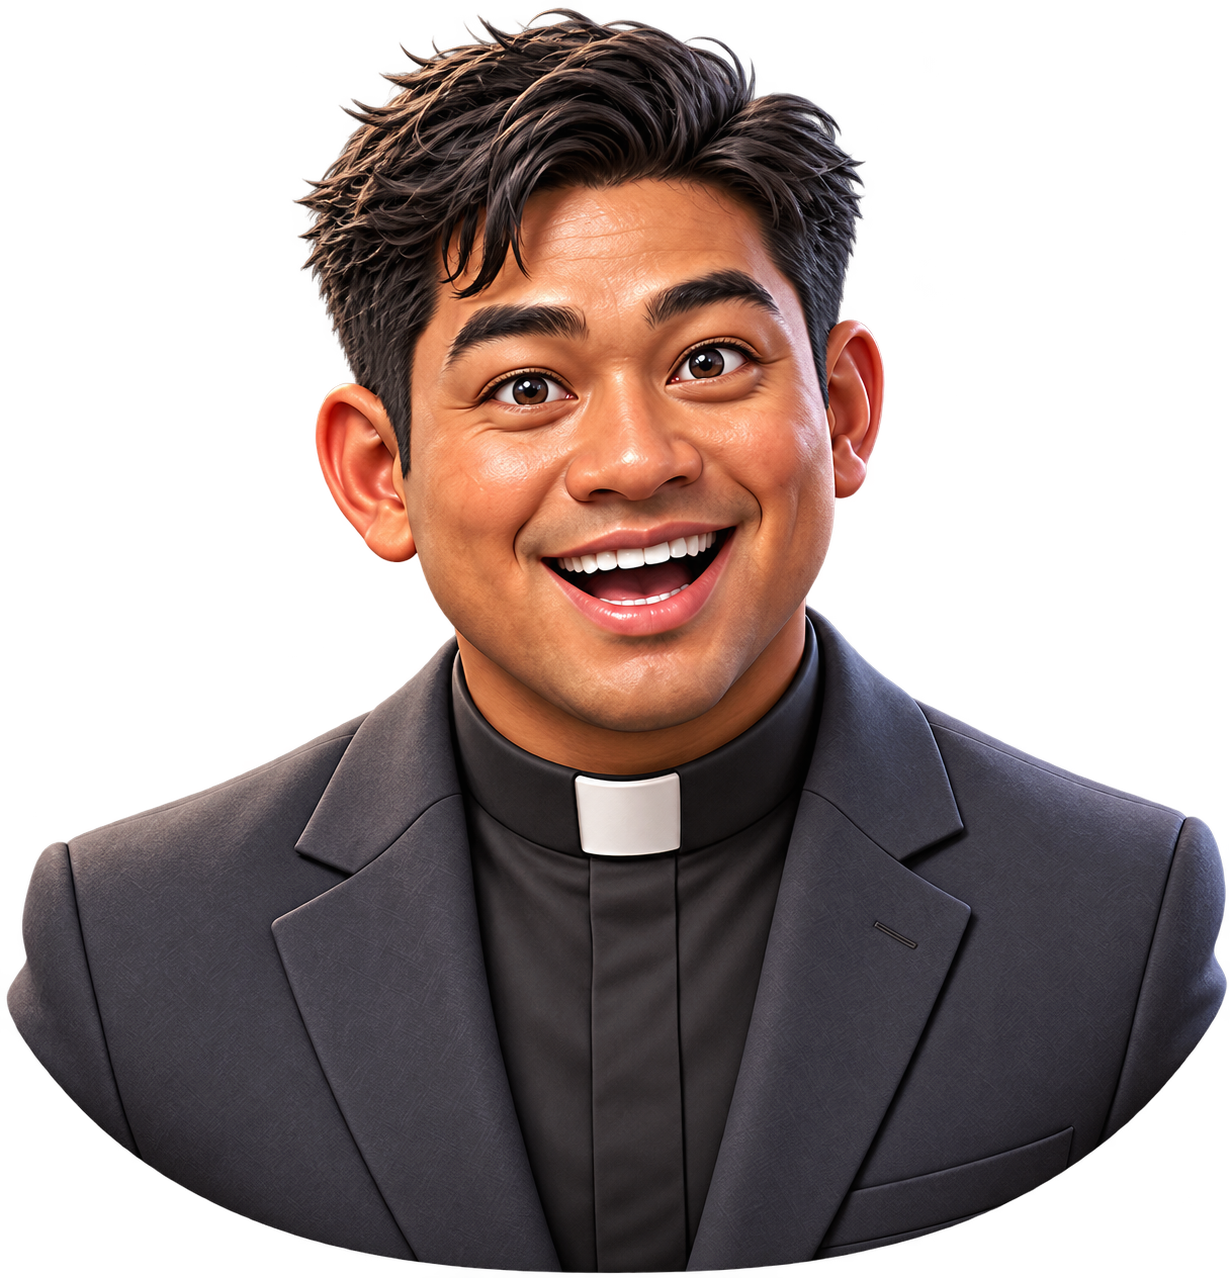
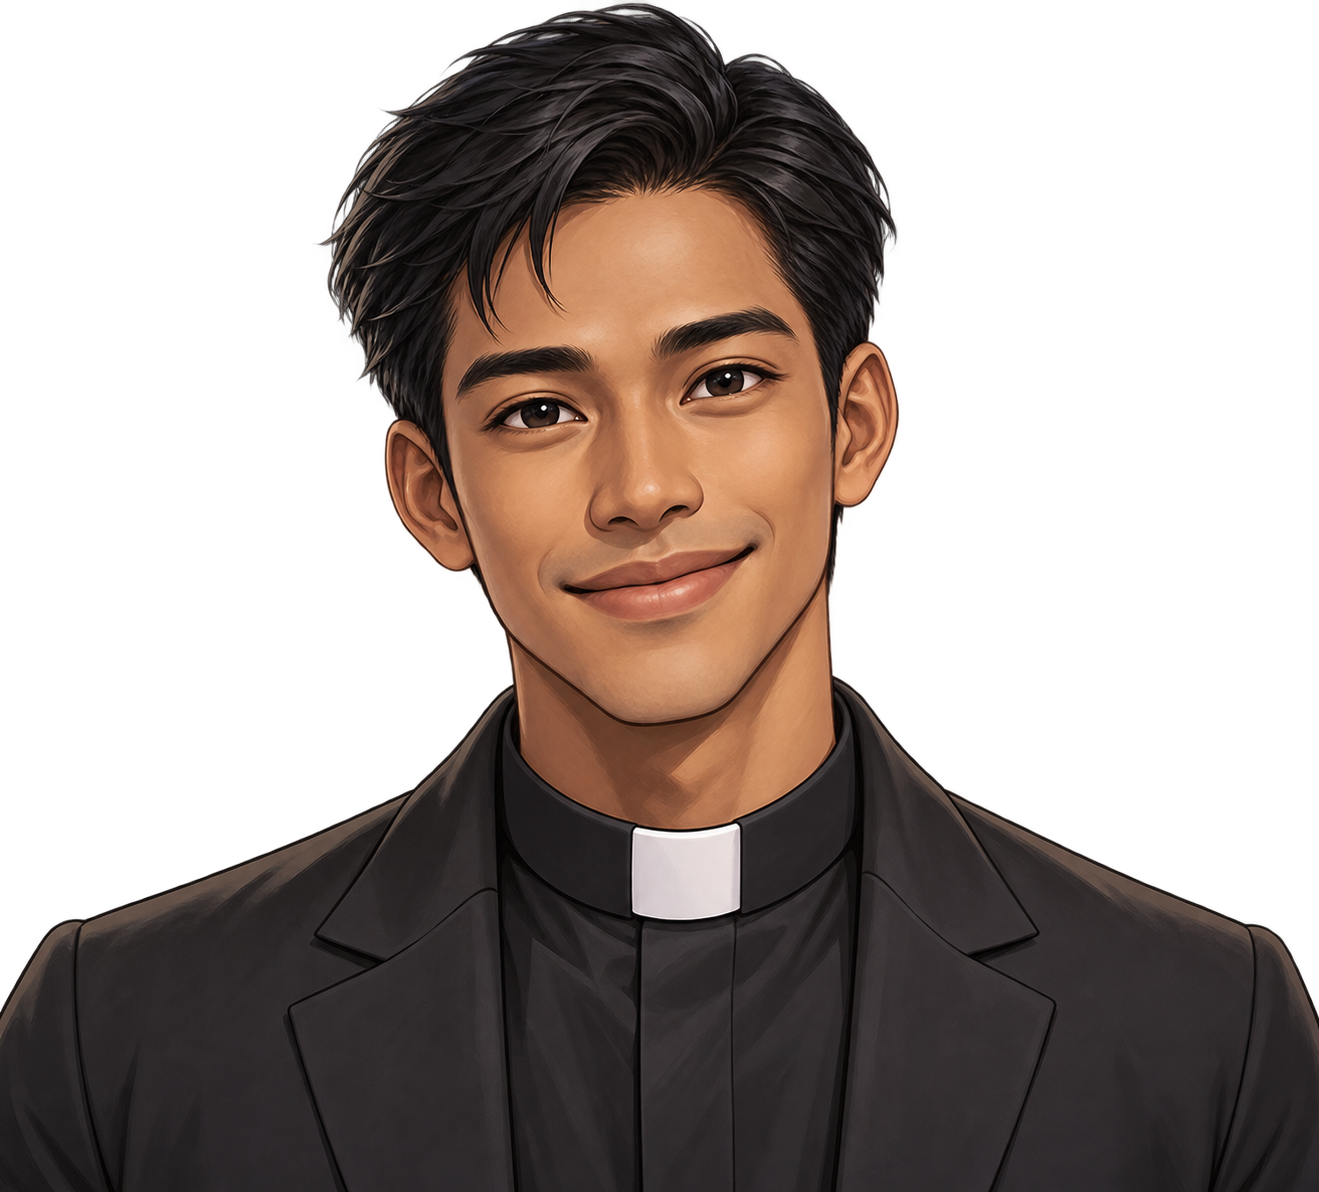
Use a 2D Southeast Asian pastor portrait

diff --git a/index.html b/index.html
@@ -388,7 +388,7 @@ const BLACK='#1b1b1b',RED='#c8312f';
 // Character looks. 'jersey' is drawn from the user's photo: short tousled dark hair, black square glasses,
 // navy jersey with green / lime vertical stripes and a lime V collar, black shorts, black watch on the left wrist.
 const LOOKS={
-pastor3d:{name:'목사님',nick:'목사님',kit:{name:'PASTOR',color:'#e9d5ff'},face:'pastorFace',faceFit:{h:55,b:24,cx:.5},model3d:'pastorBody',spinServe:true,ceremony:'좋은 소식입니다! 🏓',split:true,stanceK:1.02,crouchK:.1,shirt:'#25252d',sleeve:'#25252d',collar:'#f8fafc',pants:'#172033',shorts:false,hair:'#1b1618',skin:'#a96843',skinShade:'#824629'},
+pastor3d:{name:'목사님',nick:'목사님',kit:{name:'PASTOR',color:'#e9d5ff'},face:'pastorFace',faceFit:{h:55,b:24,cx:.5},spinServe:true,ceremony:'좋은 소식입니다! 🏓',split:true,stanceK:1.02,crouchK:.1,shirt:'#25252d',sleeve:'#25252d',collar:'#f8fafc',pants:'#172033',shorts:false,hair:'#1b1618',skin:'#a96843',skinShade:'#824629'},
 neon3d:{name:'네온 스핀',nick:'네온 스핀',kit:{name:'NEON',color:'#22d3ee'},face:'neonFace',faceFit:{h:56,b:24,cx:.5},model3d:'neonBody',spinServe:true,ceremony:'스핀 온!',split:true,stanceK:1.1,crouchK:.12,shirt:'#172554',sleeve:'#172554',collar:'#22d3ee',pants:'#111827',shorts:false,hair:'#16121e',skin:'#efc6a6',skinShade:'#d3a283'},
 jersey:{name:'휴고범',nick:'휴고범',kit:{name:'BEOM',color:'#c9ec4a'},trait:{strong:-1,weak:1},face:'hugo',split:true,shout:'촤!',strokes:'hugo',stanceK:1.15,crouchK:.12,shirt:'#163a6b',stripes:['#1f9b54','#c9ec4a'],sleeve:'#1f9b54',collar:'#c9ec4a',pants:'#151515',shorts:true,hair:'#211812',tousled:true,glasses:true,watch:true},
 // 리신범, from the user's photo: wavy dark hair, black headband over the eyes with glasses on top, stubble,
@@ -1046,7 +1046,7 @@ const DRUNK_NOSCORE=.01;   // 만취범's won point: 1% he is too drunk to turn 
 const TRAIT_POWER=.3,TRAIT_MULT=1.25,TRAIT_ERR=.1,SIDE_NAME={'1':'포핸드','-1':'백핸드'};
 // Head-only cutouts use their own chin anchors; untouched photos keep their original fit.
 const HEAD_FITS={yunhwan:{h:49,b:22,cx:.5},jongryeong:{h:49,b:21.5,cx:.46},ajae:{h:49,b:23.5,cx:.5},sleepy:{h:49,b:20,cx:.5},hyde:{h:49,b:20,cx:.5},percival:{h:45,b:19.5,cx:.45},adam:{h:49,b:24,cx:.5},minheeS:{h:49,b:20.5,cx:.42}};
-const FACES={};for(const [k,f] of [['pastorBody','pastor-3d.png'],['pastorFace','pastor-face.png'],['neonBody','neon-spin-3d.png'],['neonFace','neon-spin-face.png'],['hugo','hugo-face.png'],['gambler','gambler-face.png'],['leesin','leesin-face.png'],['percival','percival-face.png'],['drunk','drunk-face.png'],['ajae','ajae-face.png'],['sleepy','sleepy-face.png'],['hyde','hyde-face.png'],['jh','jekyll-hyde-face.png'],['minhee','minhee-face.png'],['yunhwan','yunhwan-face.png'],['seohyun','seohyun-face.png'],['jongryeong','jongryeong-face.png'],['songstar','songstar-face.png'],['ttalgak','ttalgak-face.png'],['adam','adam-face.png'],['godyung','godyung-face.png'],['jiseong','jiseong-face.png'],['infibot','infibot-face.png'],['boss','boss-face.png'],['minheeS','minhee-serve.png'],['minheeF','minhee-fh.png']]){const im=new Image();im.photoFit=HEAD_FITS[k];im.fetchPriority=['minhee','gambler','pastorBody','pastorFace','neonBody','neonFace'].includes(k)?'high':'low';im.src=f;im.onload=()=>{if(typeof setCharacter==='function')setCharacter(charType);};FACES[k]=im;}
+const FACES={};for(const [k,f] of [['pastorFace','pastor-face.png'],['neonBody','neon-spin-3d.png'],['neonFace','neon-spin-face.png'],['hugo','hugo-face.png'],['gambler','gambler-face.png'],['leesin','leesin-face.png'],['percival','percival-face.png'],['drunk','drunk-face.png'],['ajae','ajae-face.png'],['sleepy','sleepy-face.png'],['hyde','hyde-face.png'],['jh','jekyll-hyde-face.png'],['minhee','minhee-face.png'],['yunhwan','yunhwan-face.png'],['seohyun','seohyun-face.png'],['jongryeong','jongryeong-face.png'],['songstar','songstar-face.png'],['ttalgak','ttalgak-face.png'],['adam','adam-face.png'],['godyung','godyung-face.png'],['jiseong','jiseong-face.png'],['infibot','infibot-face.png'],['boss','boss-face.png'],['minheeS','minhee-serve.png'],['minheeF','minhee-fh.png']]){const im=new Image();im.photoFit=HEAD_FITS[k];im.fetchPriority=['minhee','gambler','pastorFace','neonBody','neonFace'].includes(k)?'high':'low';im.src=f;im.onload=()=>{if(typeof setCharacter==='function')setCharacter(charType);};FACES[k]=im;}
 const faceImg=look=>{const im=look&&look.face&&FACES[look.jekyll&&jk()<0?'hyde':look.face];return im&&im.complete&&im.naturalWidth?im:null;};
 // Each racket's special: shot type in PingPhysics.shot, trail colour, coach line.
 const SPECIALS={
@@ -2674,7 +2674,7 @@ $('blade').value=bladeType;$('rubber').value=rubberType;setRacket(store.get('rac
 $('apply-settings').onclick=applySettings;markPending();
 // Character card: what each character can do, shown before picking one
 const CHAR_INFO={
-pastor3d:{tag:'3D 모델 · 소식통 사이드스핀 선수',rows:[['info','소식 전달','늘 새로운 이야기를 전하는 활기찬 코트의 전달자'],['plus','사이드스핀 서브','회전이 실린 균형형 서브'],['perf','PERFECT','"좋은 소식입니다! 🏓"']]},
+pastor3d:{tag:'2D 일러스트 · 소식통 사이드스핀 선수',rows:[['info','소식 전달','늘 새로운 이야기를 전하는 활기찬 코트의 전달자'],['plus','사이드스핀 서브','회전이 실린 균형형 서브'],['perf','PERFECT','"좋은 소식입니다! 🏓"']]},
 neon3d:{tag:'3D 모델 · 균형형 사이드스핀 선수',rows:[['info','3D 캐릭터','실제 코트와 캐릭터 선택 화면에서 입체 전신 모델로 표시'],['plus','사이드스핀 서브','회전이 실린 균형형 서브'],['perf','PERFECT','"스핀 온!"']]},
 jiseong:{tag:'승승패패패 · 패패승승승',rows:[['minus','승승패패패','3점 이상 앞서면 모든 공에서 실수 확률 +10%'],['plus','패패승승승','3점 이상 지고 있으면 모든 공을 칠 때 능력치 +30% (속도 · 회전)'],['perf','PERFECT','"엥?"']]},ttalgak:{tag:'서브의 달인 · 오른쪽 무릎 수술',rows:[['plus','서브','어떤 서브든 회전 ×1.3 · 속도 ×1.35'],['plus','서브 압박','내 서브를 받은 공: 20% 붕 떠서 찬스볼 · 3% 네트 · 3% 아웃'],['minus','무릎','멀리 있는 공으로 급하게 움직일 때 타격 범위 −30%'],['perf','PERFECT','"찬스! 🔥"']]},
 songstar:{tag:'커트 수비의 달인 · 수비수 라켓',rows:[['plus','백핸드 롱 수비','PERFECT: 낮고 빠른 커트 + 상대 실수 +5% · GREAT: 보통 커트 + 상대 실수 +2.5%'],['info','회전 바꾸기','백핸드 롱으로 상회전 서브를 받으면 커트로 · 커트 서브는 상회전으로 · 랠리 중 커트 공은 약한 상회전으로 풀려서 리턴'],['plus','드라이브 커트','드라이브를 커트로 막으면 회전 추가: PERFECT +10% · GREAT +5% · GOOD +2.5%'],['plus','찬스볼','상대가 띄운 공은 스매싱 · 드라이브'],['minus','포핸드 공격','포핸드 드라이브 · 스매싱은 5% 확률로 너무 세게 쳐서 실수'],['perf','PERFECT','"허허이! 😆" / "으악~ 😱"']]},
@@ -2703,7 +2703,7 @@ $('ci-close').onclick=()=>{$('char-info').close();ciSync();};$('ci-pick').onclic
 const nx=$('google-login').hidden?$('start'):$('google-login');setTimeout(()=>nx.scrollIntoView({behavior:'smooth',block:'center'}),80);
 setTimeout(()=>{const r=nx.getBoundingClientRect();if(r.top<0||r.bottom>innerHeight)nx.scrollIntoView({block:'center'});},900);};   // smooth where it animates, a plain jump otherwise
 // Project-owned 3D players join both pickers without duplicating the long static HTML lists.
-for(const [id,label] of [['neon3d','네온 스핀 · 3D 밸런스형 · 사이드스핀 서브'],['pastor3d','목사님 · 3D 소식통 · 사이드스핀 서브']]){const opt=document.createElement('option');opt.value=id;opt.textContent=label;$('character').prepend(opt);const b=document.createElement('button');b.type='button';b.setAttribute('role','radio');b.dataset.char=id;const c=document.createElement('canvas');c.width=c.height=96;c.setAttribute('aria-hidden','true');b.append(c,LOOKS[id].nick);$('char-pick').prepend(b);}renderCharPick();renderLevel();
+for(const [id,label] of [['neon3d','네온 스핀 · 3D 밸런스형 · 사이드스핀 서브'],['pastor3d','목사님 · 2D 소식통 · 사이드스핀 서브']]){const opt=document.createElement('option');opt.value=id;opt.textContent=label;$('character').prepend(opt);const b=document.createElement('button');b.type='button';b.setAttribute('role','radio');b.dataset.char=id;const c=document.createElement('canvas');c.width=c.height=96;c.setAttribute('aria-hidden','true');b.append(c,LOOKS[id].nick);$('char-pick').prepend(b);}renderCharPick();renderLevel();
 document.querySelectorAll('#char-pick button').forEach(b=>b.onclick=()=>showCharInfo(b.dataset.char));
 // the settings panel's character list opens the same card; closing it without picking puts the list back
 const ciSync=()=>{$('character').value=charType;markPending();previewSettings();};

diff --git a/docs/patch-notes.md b/docs/patch-notes.md
@@ -4,9 +4,9 @@
 
 최신 순. 버전 옆 코드를 누르면 해당 변경 내용을 볼 수 있습니다.
 
-### v4.51 — 3D 목사님 캐릭터 · 2026-10-22
-- 오리지널 3D 캐릭터 **목사님**을 추가했습니다. 활기찬 소식통 콘셉트의 짧은 체격 30대 남성 목사이며, 사이드스핀 서브를 사용합니다.
-- 선택 카드·설정·필살기 컷인은 3D 초상, 실제 코트는 전신 3D 모델로 표시됩니다.
+### v4.51 — 2D 목사님 캐릭터 · 2026-10-22
+- 오리지널 2D 캐릭터 **목사님**을 추가했습니다. 활기찬 소식통 콘셉트의 짧은 체격 30대 남성 목사이며, 사이드스핀 서브를 사용합니다.
+- 선택 카드·설정·필살기 컷인과 실제 코트에서 2D 얼굴 일러스트 및 의상 렌더를 사용합니다.
 
 ### v4.50 — 네온 스핀 코디 적용 · 2026-10-22
 - 네온 스핀도 아웃핏 스튜디오의 상의·하의·머리·손목·망토·날개·이펙트·펫을 실제 코트에 적용할 수 있습니다.

diff --git a/README.md b/README.md
@@ -4,9 +4,9 @@
 
 ## 🆕 최근 업데이트
 
-### v4.51 — 3D 목사님 캐릭터 · 2026-10-22
-- 오리지널 3D 캐릭터 **목사님**을 추가했습니다. 짧은 체격의 활기찬 소식통 콘셉트이며, 사이드스핀 서브를 사용합니다.
-- 선택 카드·설정·필살기 컷인은 3D 초상, 실제 코트는 전신 3D 모델로 표시됩니다.
+### v4.51 — 2D 목사님 캐릭터 · 2026-10-22
+- 오리지널 2D 캐릭터 **목사님**을 추가했습니다. 짧은 체격의 활기찬 소식통 콘셉트이며, 사이드스핀 서브를 사용합니다.
+- 선택 카드·설정·필살기 컷인과 실제 코트에서 2D 얼굴 일러스트 및 의상 렌더를 사용합니다.
 
 ### v4.50 — 네온 스핀 코디 적용 · 2026-10-22
 - 네온 스핀도 아웃핏 스튜디오의 상의·하의·액세서리를 실제 코트에 착용할 수 있습니다.

diff --git a/docs/characters.md b/docs/characters.md
@@ -8,7 +8,7 @@
 
 | 캐릭터 | 주무기 | 약점 | PERFECT |
 |---|---|---|---|
-| 목사님 | 사이드스핀 서브 · 3D 전신 모델 | — | "좋은 소식입니다! 🏓" |
+| 목사님 | 사이드스핀 서브 · 2D 일러스트 | — | "좋은 소식입니다! 🏓" |
 | 네온 스핀 | 사이드스핀 서브 · 3D 전신 모델 | — | "스핀 온!" |
 | 휴고범 | 백핸드 30% ×1.25 강타 | 포핸드 10% 실수 | "촤!" |
 | 리신범 | 용의 드라이브 · 용의 스매싱 ×1.5 | 날아오는 공 50% 화면 깜깜 | "용의 분노!" |
